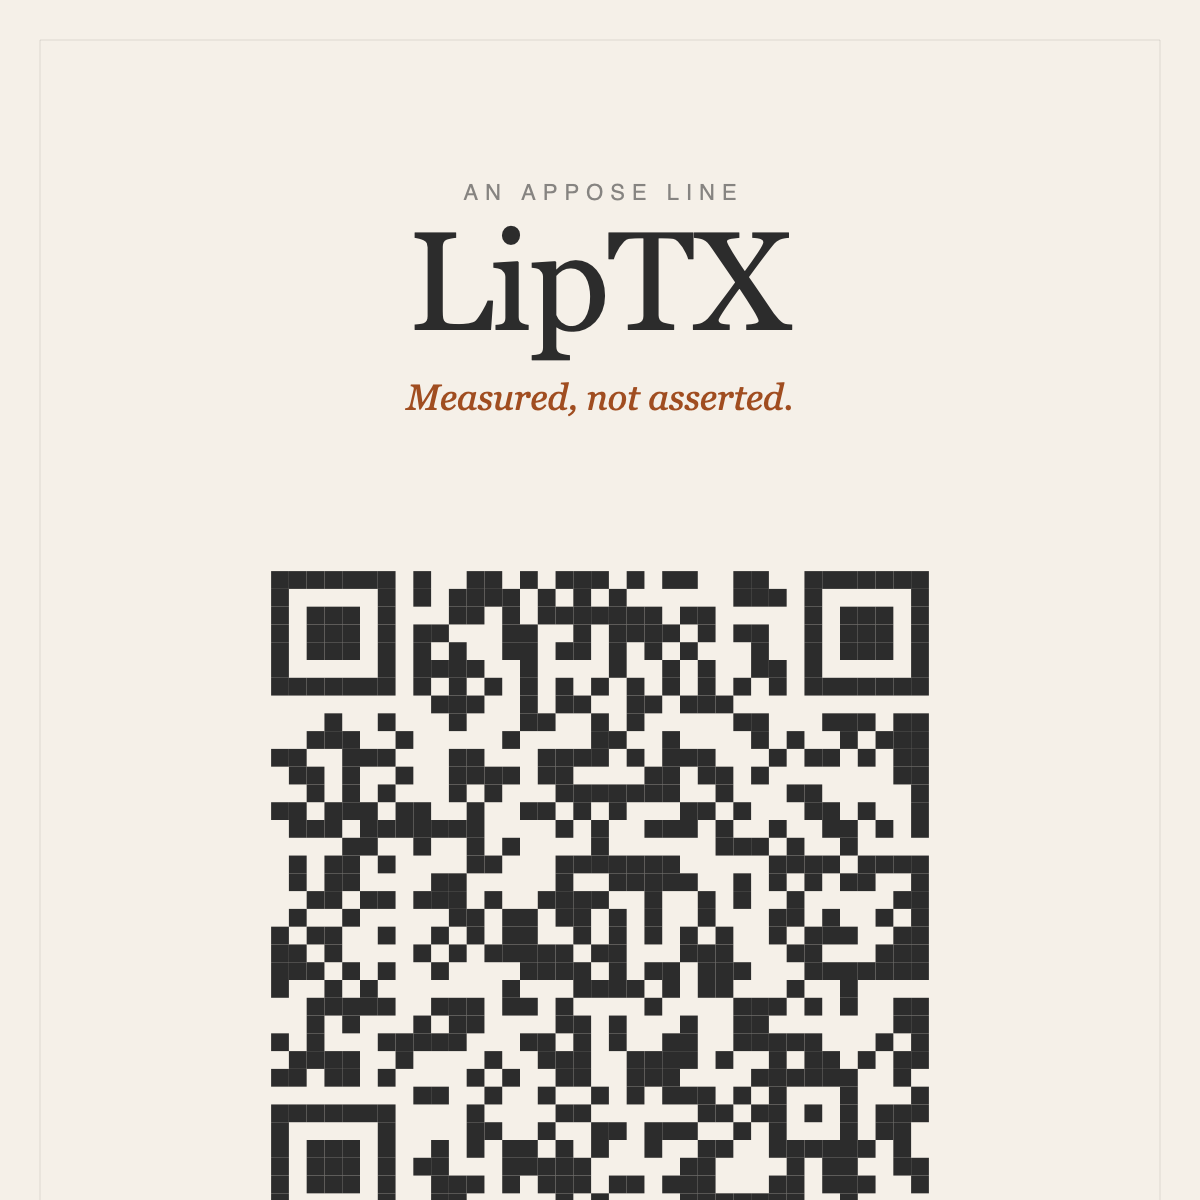
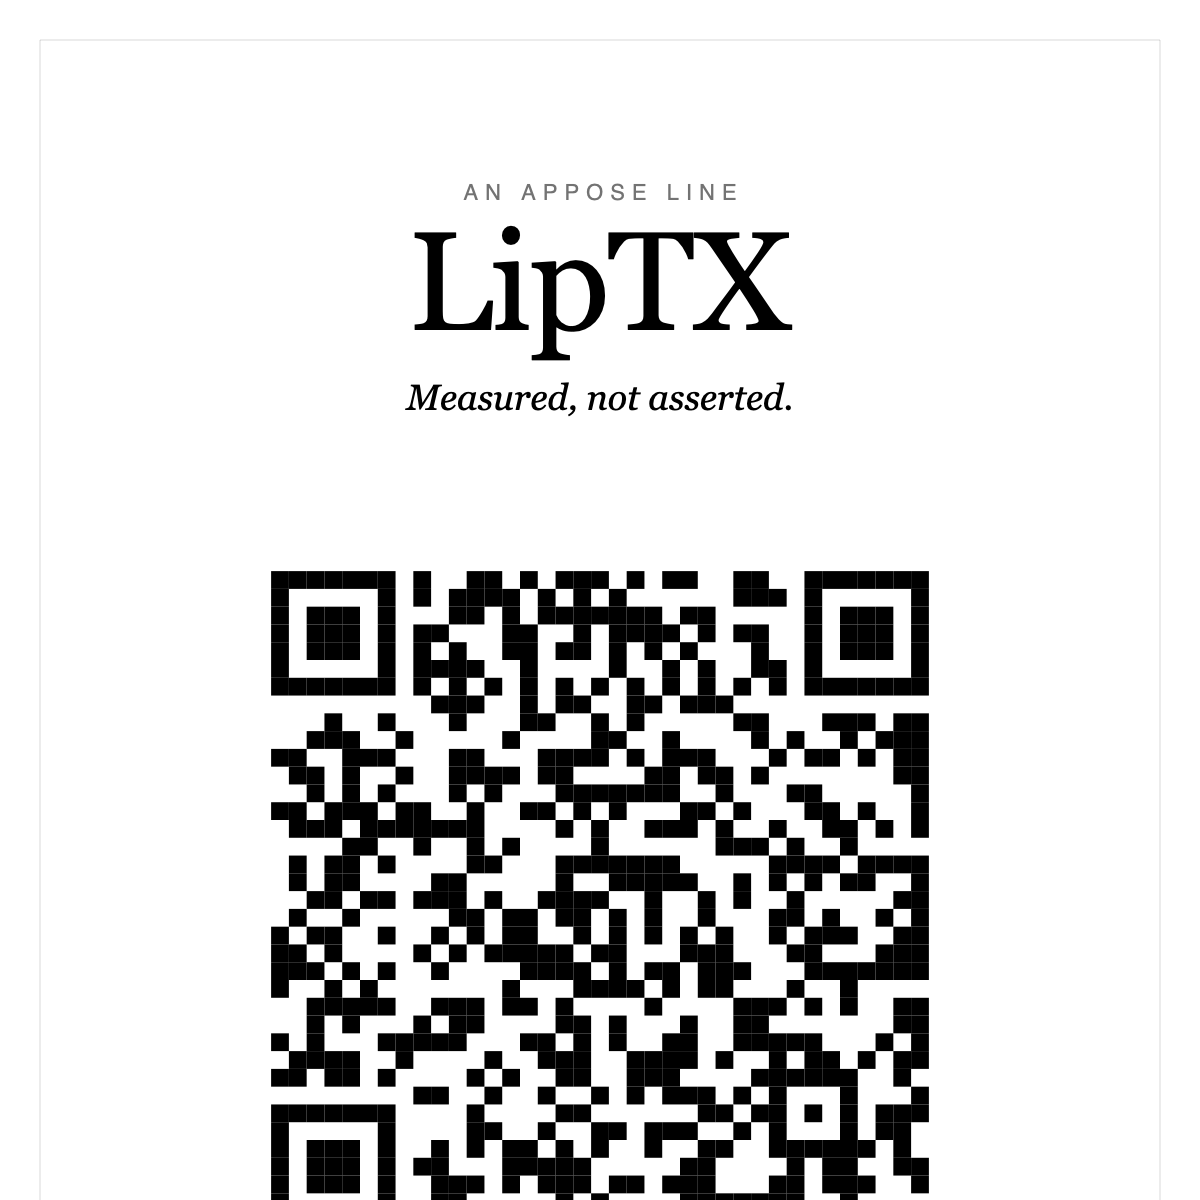
QR code: switch to pure black on white
- liptx-qr.svg / liptx-qr.png: cream+charcoal -> black on white
  (was the 'brand-tinted' version; black on white is universally
  scannable and prints cleanly on any paper)
- liptx-qr-card.svg / liptx-qr-card.png: same
- Delete liptx-qr-plain.png (redundant now — primary IS plain)
- .qr-visual frame background: cream -> white to match the QR card
- LipTX page download list drops to 4 files (card PNG/SVG + QR PNG/SVG)

Changed region(s): [[0.2158, 0.4625, 0.8017, 1.0], [0.3392, 0.185, 0.6475, 0.3392]]

diff --git a/liptx.html b/liptx.html
@@ -326,14 +326,10 @@
           </a>
           <a class="qr-download" href="assets/liptx-qr.png" download>
             <span class="qr-download-label">QR only</span>
-            <span class="qr-download-format">PNG · cream</span>
-          </a>
-          <a class="qr-download" href="assets/liptx-qr-plain.png" download>
-            <span class="qr-download-label">QR only</span>
-            <span class="qr-download-format">PNG · black on white</span>
+            <span class="qr-download-format">PNG · 950×950</span>
           </a>
         </div>
-        <p class="qr-note">All files link to <strong>thereflectco.com/liptx</strong>. SVG scales infinitely — use it whenever the print size is above 2 inches.</p>
+        <p class="qr-note">All files link to <strong>thereflectco.com/liptx</strong>. Black on white for maximum scanner compatibility. SVG scales infinitely — use it whenever the print size is above 2 inches.</p>
       </div>
     </div>
   </div>

diff --git a/styles.css b/styles.css
@@ -1140,7 +1140,7 @@ body.liptx .breadcrumbs .sep { color: rgba(44,44,44,0.35); }
 @media (max-width: 780px) { .qr-grid { grid-template-columns: 1fr; gap: 40px; justify-items: center; text-align: center; } }
 .qr-visual {
   padding: 24px;
-  background: #f5f0e8;
+  background: #ffffff;
   border: 1px solid rgba(44,44,44,0.08);
   border-radius: 4px;
   box-shadow: 0 20px 40px rgba(44,44,44,0.06);
